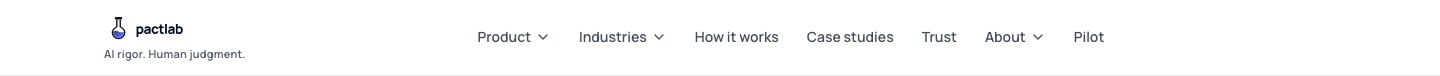
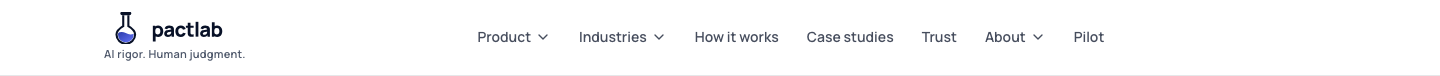
T-095 brand: final lockup and brand component, screenshots and notes
The finished brand work (vector logo, symbol and favicons across the site and
the app), shipped with the public deal page as Kumar asked.

Claude-Session: https://claude.ai/code/session_01AUiJmTWLahyRepRMgC2722

Changed region(s): [[0.0625, 0.1579, 0.1562, 0.5789]]

diff --git a/packages/ui/src/components/brand.tsx b/packages/ui/src/components/brand.tsx
@@ -13,6 +13,20 @@ const LOGO = {
   symbol: { src: '/brand/pactlab-symbol.svg', width: 120, height: 120 },
 } as const;
 
+function LockupArtwork({ src, className }: { src: string; className?: string }) {
+  return (
+    <span className={cn('relative block overflow-hidden', className)}>
+      <img
+        src={src}
+        width={LOGO.onLight.width}
+        height={LOGO.onLight.height}
+        alt="Pactlab"
+        className="absolute left-0 top-[-25%] h-[150%] w-auto max-w-none"
+      />
+    </span>
+  );
+}
+
 /**
  * Locked Pactlab B2 flask and outlined wordmark for light and dark surfaces.
  */
@@ -28,7 +42,7 @@ export function PactlabLogo({
   const logo = LOGO[tone];
   return (
     <div className={cn('flex flex-col gap-1', className)}>
-      <img src={logo.src} width={logo.width} height={logo.height} alt="Pactlab" className="h-8 w-auto self-start" />
+      <LockupArtwork src={logo.src} className="h-8 w-[126px] self-start" />
       {withTagline ? (
         <p className={cn('text-xs', tone === 'onDark' ? 'text-white/80' : 'text-muted-foreground')}>{PACTLAB_TAGLINE}</p>
       ) : null}
@@ -65,12 +79,9 @@ export function PactlabLockup({
   return (
     <span className={cn('inline-flex items-center gap-3', className)}>
       <span className="flex flex-col gap-0.5">
-        <img
+        <LockupArtwork
           src={LOGO[tone].src}
-          width={LOGO[tone].width}
-          height={LOGO[tone].height}
-          alt="Pactlab"
-          className={cn('w-auto self-start', withTagline ? 'h-8' : 'h-10')}
+          className={cn('self-start', withTagline ? 'h-8 w-[126px]' : 'h-10 w-[157px]')}
         />
         {withTagline ? (
           <span className={cn('text-[11px] font-semibold tracking-wide', tone === 'onDark' ? 'text-white/70' : 'text-slate-text')}>

diff --git a/apps/site/components/lockup.tsx b/apps/site/components/lockup.tsx
@@ -11,16 +11,19 @@ export function Lockup({
   withTagline?: boolean;
 }) {
   const height = size === 'md' ? (withTagline ? 'h-8' : 'h-10') : 'h-5';
+  const width = size === 'md' ? (withTagline ? 'w-[126px]' : 'w-[157px]') : 'w-[79px]';
   return (
     <span className="inline-flex items-center gap-3">
       <span className="flex flex-col gap-0.5">
-        <img
-          src={tone === 'onDark' ? '/brand/pactlab-logo-light.svg' : '/brand/pactlab-logo.svg'}
-          alt="Pactlab"
-          width={393}
-          height={150}
-          className={`${height} w-auto self-start`}
-        />
+        <span className={`relative block ${width} ${height} overflow-hidden`}>
+          <img
+            src={tone === 'onDark' ? '/brand/pactlab-logo-light.svg' : '/brand/pactlab-logo.svg'}
+            alt="Pactlab"
+            width={393}
+            height={150}
+            className="absolute left-0 top-[-25%] h-[150%] w-auto max-w-none"
+          />
+        </span>
         {withTagline ? (
           <span
             className={`text-[11px] font-semibold tracking-wide ${tone === 'onDark' ? 'text-white/70' : 'text-slate-text'}`}

diff --git a/docs/screenshots/T-095/README.md b/docs/screenshots/T-095/README.md
@@ -1,0 +1,15 @@
+# T-095 brand screenshots
+
+Header and footer captures use the pre-change `HEAD` snapshot and the updated
+site at a 1440 × 900 viewport in headless Chromium.
+
+| Surface | Before | After |
+| --- | --- | --- |
+| Light site header | [Before](before-light-header.png) | [After](after-light-header.png) |
+| Dark site footer | [Before](before-dark-footer.png) | [After](after-dark-footer.png) |
+| Favicon, rendered at 32px | [Before](before-favicon-preview.png) | [After](after-favicon-preview.png) |
+
+The favicon previews render the actual icon URL read from each page's `rel=icon`
+metadata inside a small tab-shaped sample. Playwright verified the updated page
+resolves `/brand/favicon.svg`. The CUA browser host was unavailable, so these
+previews do not include native browser chrome.
